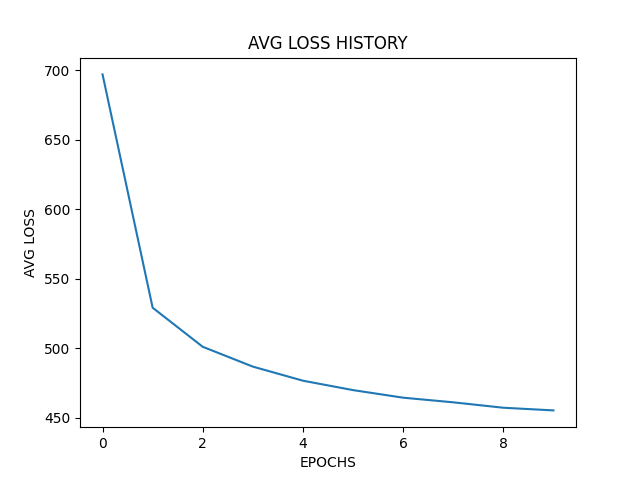
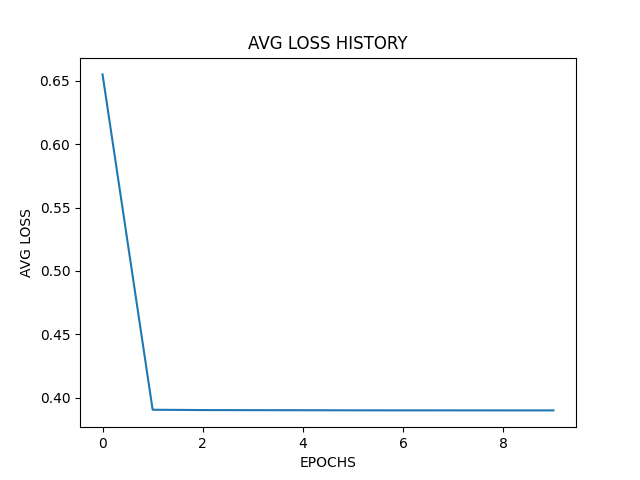
changed joint angle values to be between [-pi, pi] pre-/postprocessing of joint angles added restricted output to [-1, 1] config file added

diff --git a/src/robotsim_test.py b/src/robotsim_test.py
@@ -5,10 +5,9 @@ from robotsim_dataset import RobotSimDataset
 import robotsim
 from robotsim import RobotSim2D
 from losses import VAE_loss_ROBOT_SIM
-
 from utils import *
-
 import matplotlib.pyplot as plt
+import yaml
 
 if __name__ == '__main__':
 
@@ -19,22 +18,24 @@ if __name__ == '__main__':
     '''
 
     ####################################################################################################################
-    # TO MODIFY
+    # LOAD CONFIG
     ####################################################################################################################
 
-    X_dim = 3 * 2  # number of robot links
-    hidden_dim = 50  # number of neurons per fully connected layer
-    latent_dim = 2
-    num_cond = 2  # (x, y) coordinates of end-effector
-    num_epochs = 10
-    batch_size = 500
-    learning_rate = 1e-3
-    weight_decay = 1e-4  # 1.6e-5
-    variational_beta = 1 / 4
-    use_gpu = False
-    PATH = 'weights/ROBOTSIM_CVAE_SIN_COS'
+    config = load_config('robotsim_cVAE.yaml', 'configs/')
 
-    NUM_SAMPLES=5
+    X_dim = config['input_dim']
+    hidden_dim = config['input_dim']
+    latent_dim = config['latent_dim']
+    num_cond = config['condition_dim']
+    num_epochs = config['num_epochs']
+    batch_size = config['batch_size']
+    learning_rate = config['lr_rate']
+    weight_decay = config['weight_decay']
+    variational_beta = config['variational_beta']
+    use_gpu = config['use_gpu']
+    PATH = config['weight_dir']
+
+    NUM_SAMPLES = config['num_samples']
 
     ####################################################################################################################
     # LOAD DATASET
@@ -114,26 +115,15 @@ if __name__ == '__main__':
     _x = []
     _y = []
     for i in range(NUM_SAMPLES):
-
         # create a random latent vector
         z = torch.randn(1, latent_dim).to(device)
-        # print('Generated latent variable z: ', z)
-        # z = torch.cat((z, tcp), dim=1)
-
         with torch.no_grad():
             recons_joint_angles = cvae.predict(z, tcp)
-
-        recons_joint_angles = postprocess(recons_joint_angles)
-        print('RECONS: ', recons_joint_angles)
-
-    '''
-
-        coord = robot.forward(joint_states=recons_joint_angles.numpy().tolist()[0])
-        # print('TCP coordinates after forward kinematics of generated joint angles: ', coord)
-        # points.append(recons_joint_angles.numpy().tolist()[0])
+        preds = postprocess(recons_joint_angles)
+        # print('PREDS OF JOINT ANGLES: ', preds)
+        coord = robot.forward(joint_states=preds.numpy().tolist()[0])
         _x.append(coord[0])
         _y.append(coord[1])
-
 
     # red: gt (x,y)
     # green: (x, y) of generated joint angles
@@ -143,8 +133,6 @@ if __name__ == '__main__':
     plt.ylabel('Y')
     plt.scatter(_x, _y, c='g')
     plt.scatter(tcp[0][0], tcp[0][1], c='r')
-    plt.savefig('coord2.png')
-    
-    '''
+    plt.savefig('TCP_coordinates.png')
 
     print('-----------------------------------------------')

diff --git a/src/robotsim_train.py b/src/robotsim_train.py
@@ -11,6 +11,8 @@ import robotsim
 import matplotlib.pyplot as plt
 from utils import *
 
+import yaml
+
 
 if __name__ == '__main__':
 
@@ -19,20 +21,22 @@ if __name__ == '__main__':
     '''
 
     ####################################################################################################################
-    # TO MODIFY
+    # LOAD CONFIG
     ####################################################################################################################
 
-    X_dim = 3 * 2 # number of robot links
-    hidden_dim = 50 # number of neurons per fully connected layer
-    latent_dim = 2
-    num_cond = 2 # (x, y) coordinates of end-effector
-    num_epochs = 10
-    batch_size = 500
-    learning_rate = 1e-3
-    weight_decay = 1e-4 # 1.6e-5
-    variational_beta = 1 / 4
-    use_gpu = False
-    PATH = 'weights/ROBOTSIM_CVAE_SIN_COS'
+    config = load_config('robotsim_cVAE.yaml', 'configs/')
+
+    X_dim = config['input_dim']
+    hidden_dim = config['input_dim']
+    latent_dim = config['latent_dim']
+    num_cond = config['condition_dim']
+    num_epochs = config['num_epochs']
+    batch_size = config['batch_size']
+    learning_rate = config['lr_rate']
+    weight_decay = config['weight_decay']
+    variational_beta = config['variational_beta']
+    use_gpu = config['use_gpu']
+    PATH = config['weight_dir']
 
     ####################################################################################################################
     # LOAD DATASET
@@ -128,4 +132,4 @@ if __name__ == '__main__':
     plt.xlabel('EPOCHS')
     plt.ylabel('AVG LOSS')
     plt.plot(train_loss_avg)
-    plt.savefig('avg_train_loss_SIN_COS.png')
+    plt.savefig('avg_train_loss.png')

diff --git a/src/utils.py b/src/utils.py
@@ -1,4 +1,12 @@
 import torch
+import yaml
+import os
+
+# Function to load yaml configuration file
+def load_config(config_name, config_path):
+    with open(os.path.join(config_path, config_name)) as file:
+        config = yaml.safe_load(file)
+    return config
 
 def onehot(idx, num_classes):
 
@@ -19,8 +27,14 @@ def preprocess(x):
 
 def postprocess(x):
 
-    # print('SHAPE: ', x.size())
-    x_arcsin = torch.arcsin(x[:, :3])
-    x_arccos = torch.arccos(x[:, 3:])
-    x = torch.cat((x_arcsin, x_arccos), dim=1)
-    return x
+    # see values as complex numbers from which we want to compute its argument
+    # arg(x + i*y) = arg(cos(phi) + i*sin(phi)) = arctan(y/x)
+    # special cases
+
+    num_joints = int(x.size()[1] / 2)
+    _x = torch.zeros(size=(x.size()[0], num_joints))
+
+    for i in range(num_joints):
+        _x[:, i] = torch.atan2(input=x[:, i], other=x[:, num_joints+i])
+
+    return _x

diff --git a/src/losses.py b/src/losses.py
@@ -22,7 +22,9 @@ This loss is created for unnormalized inputs without activation function in the 
 '''
 def VAE_loss_ROBOT_SIM(recon_x, x, mu, logvar, variational_beta):
 
-    recon_loss = F.mse_loss(recon_x, x, size_average=False)
+    # try out what is better
+    recon_loss = F.mse_loss(recon_x, x)
+    # recon_loss = F.hinge_embedding_loss(recon_x, x)
 
     # KL-divergence between the prior distribution over latent vectors
     kldivergence = -0.5 * torch.sum(1 + logvar - mu.pow(2) - logvar.exp())

diff --git a/src/robotsim_dataset.py b/src/robotsim_dataset.py
@@ -37,7 +37,7 @@ class RobotSimDataset(Dataset):
         # otherwise we get duplicate entries (0 and 2*pi are the same).
         # Array is repeated for each link to generate meshgrid.
         angle_range = np.resize(
-            np.linspace(0, 2*np.pi, res, endpoint=False),
+            np.linspace(-np.pi, np.pi, res, endpoint=False),
             (robot_sim.num_links, res))
 
         self.joint_values = np.array(

diff --git a/src/models/CVAE.py b/src/models/CVAE.py
@@ -71,9 +71,11 @@ class Decoder(nn.Module):
         x = F.relu(self.fc3(x))
 
         if self.classification:
+            # force input to be between [0, 1]
             x = torch.sigmoid(self.fc4(x))
         else:
-            x = self.fc4(x)
+            # force input to be between [-1, 1]
+            x = torch.tanh(self.fc4(x))
         return x
 
 class CVAE(nn.Module):
